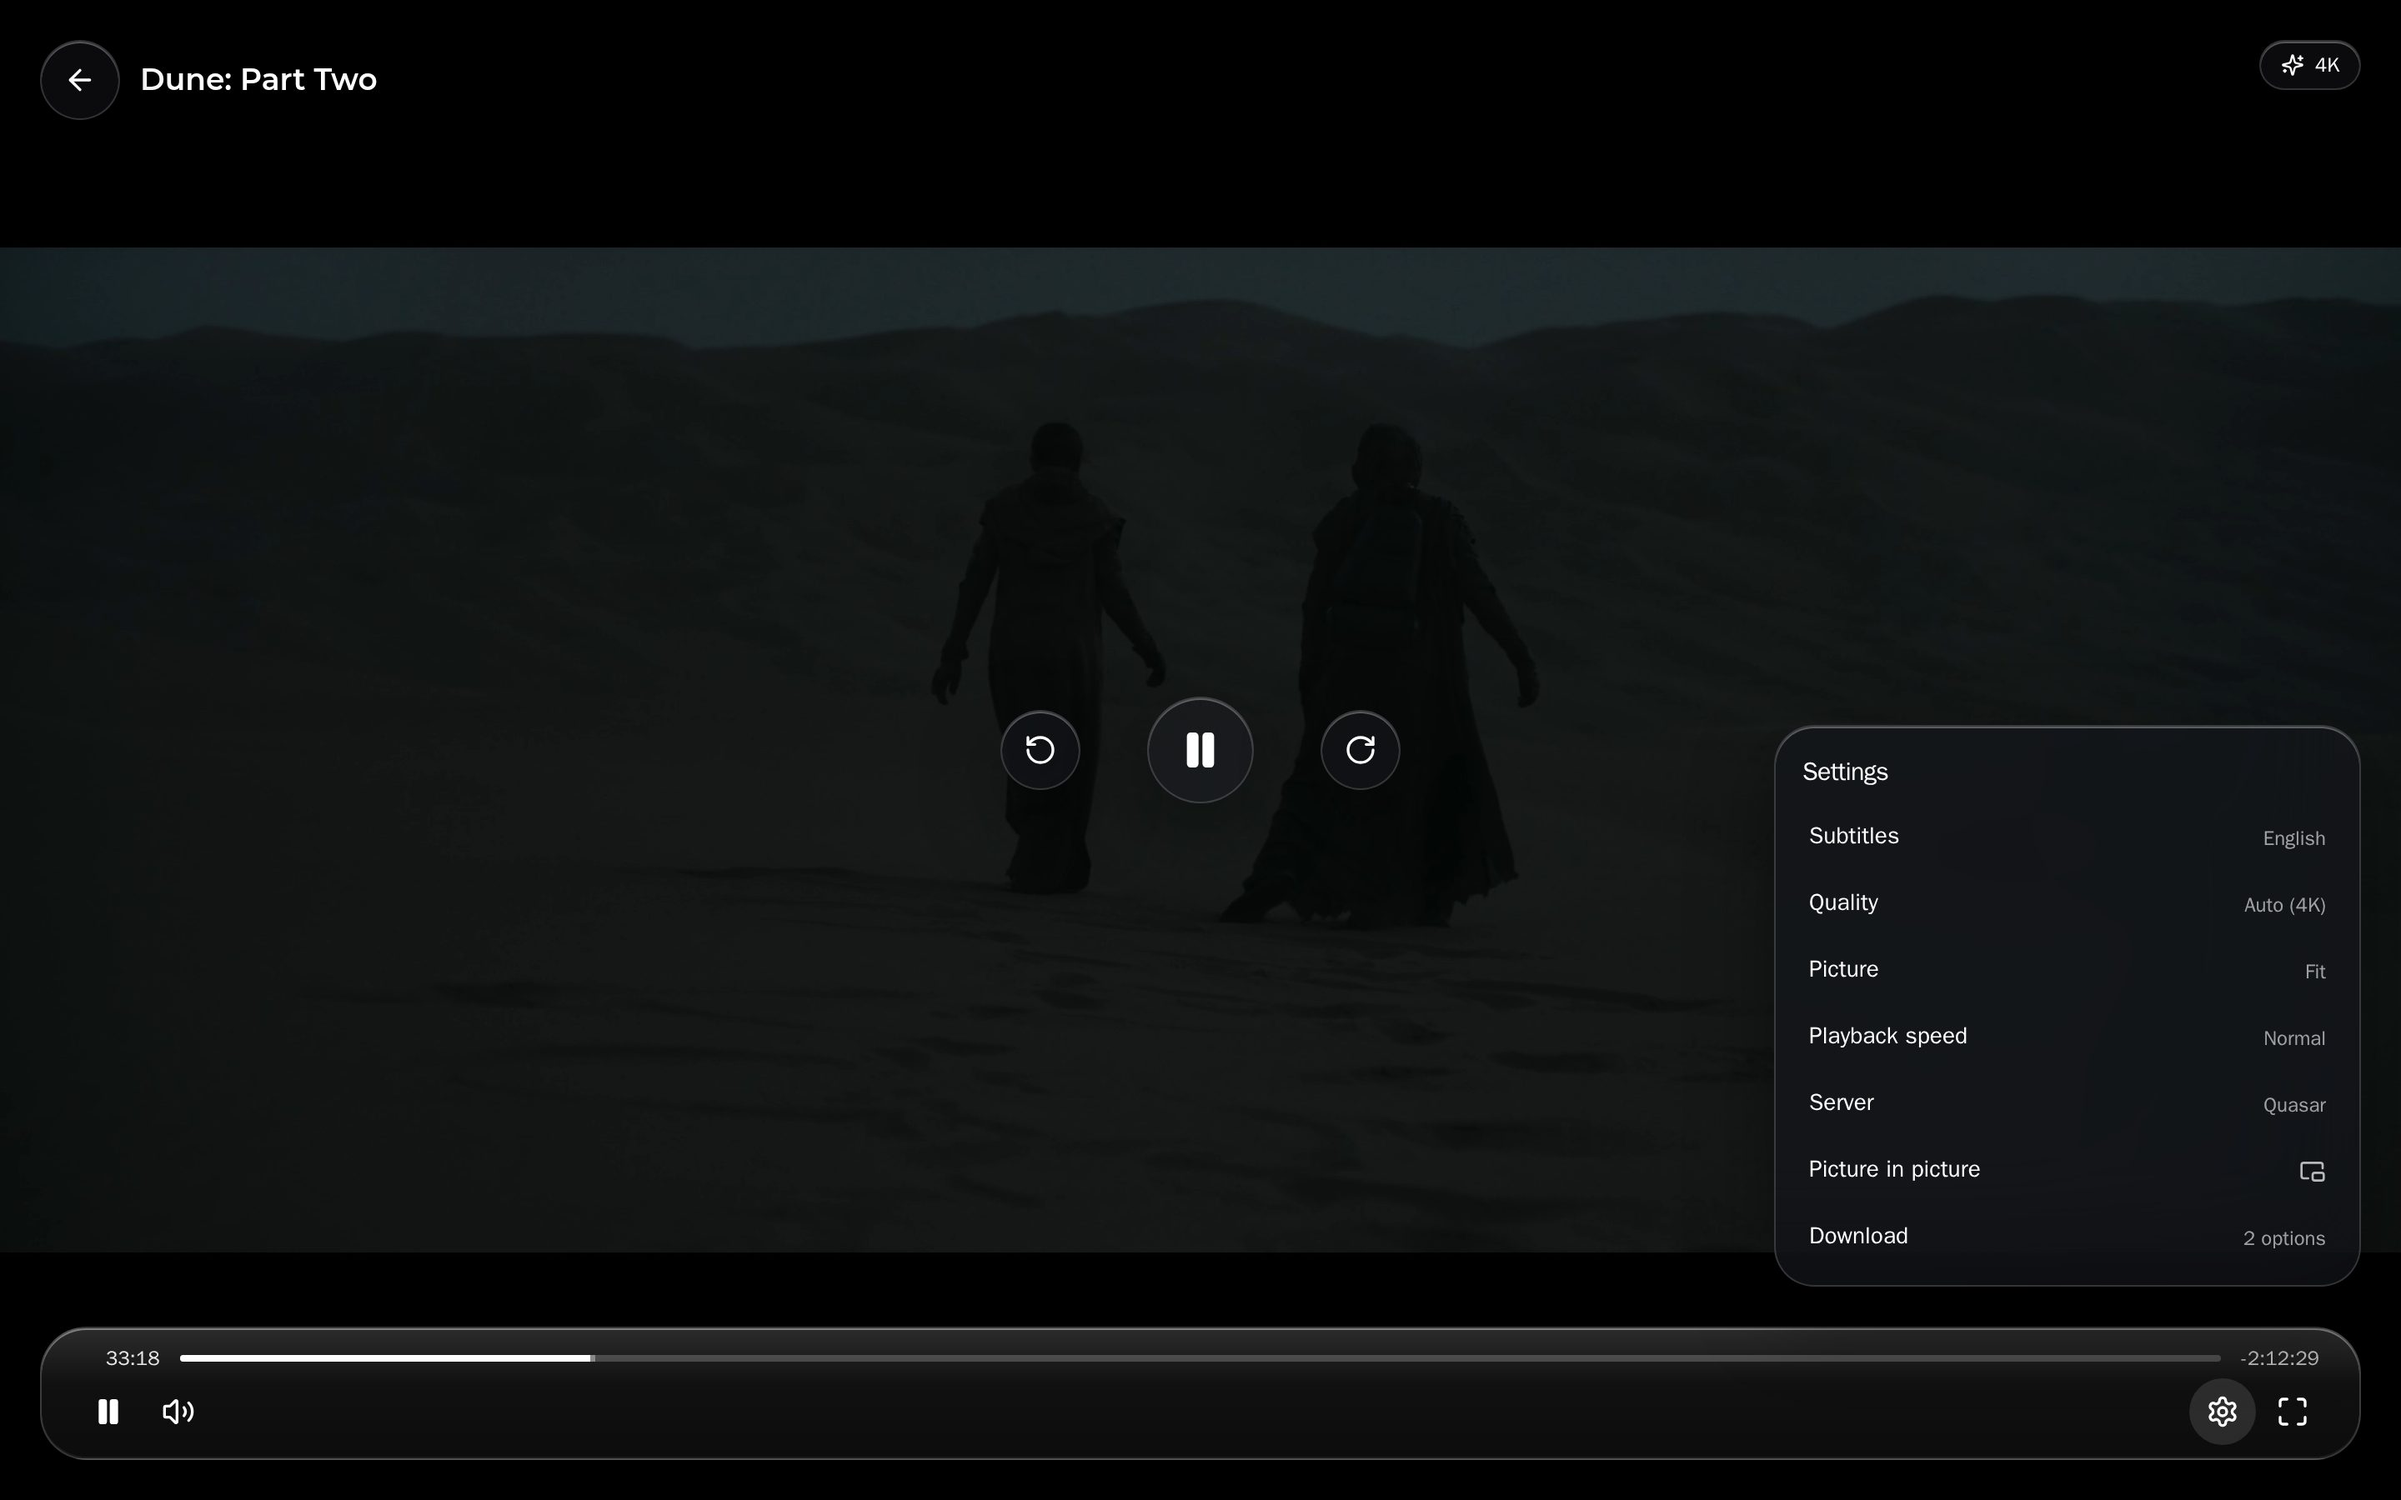
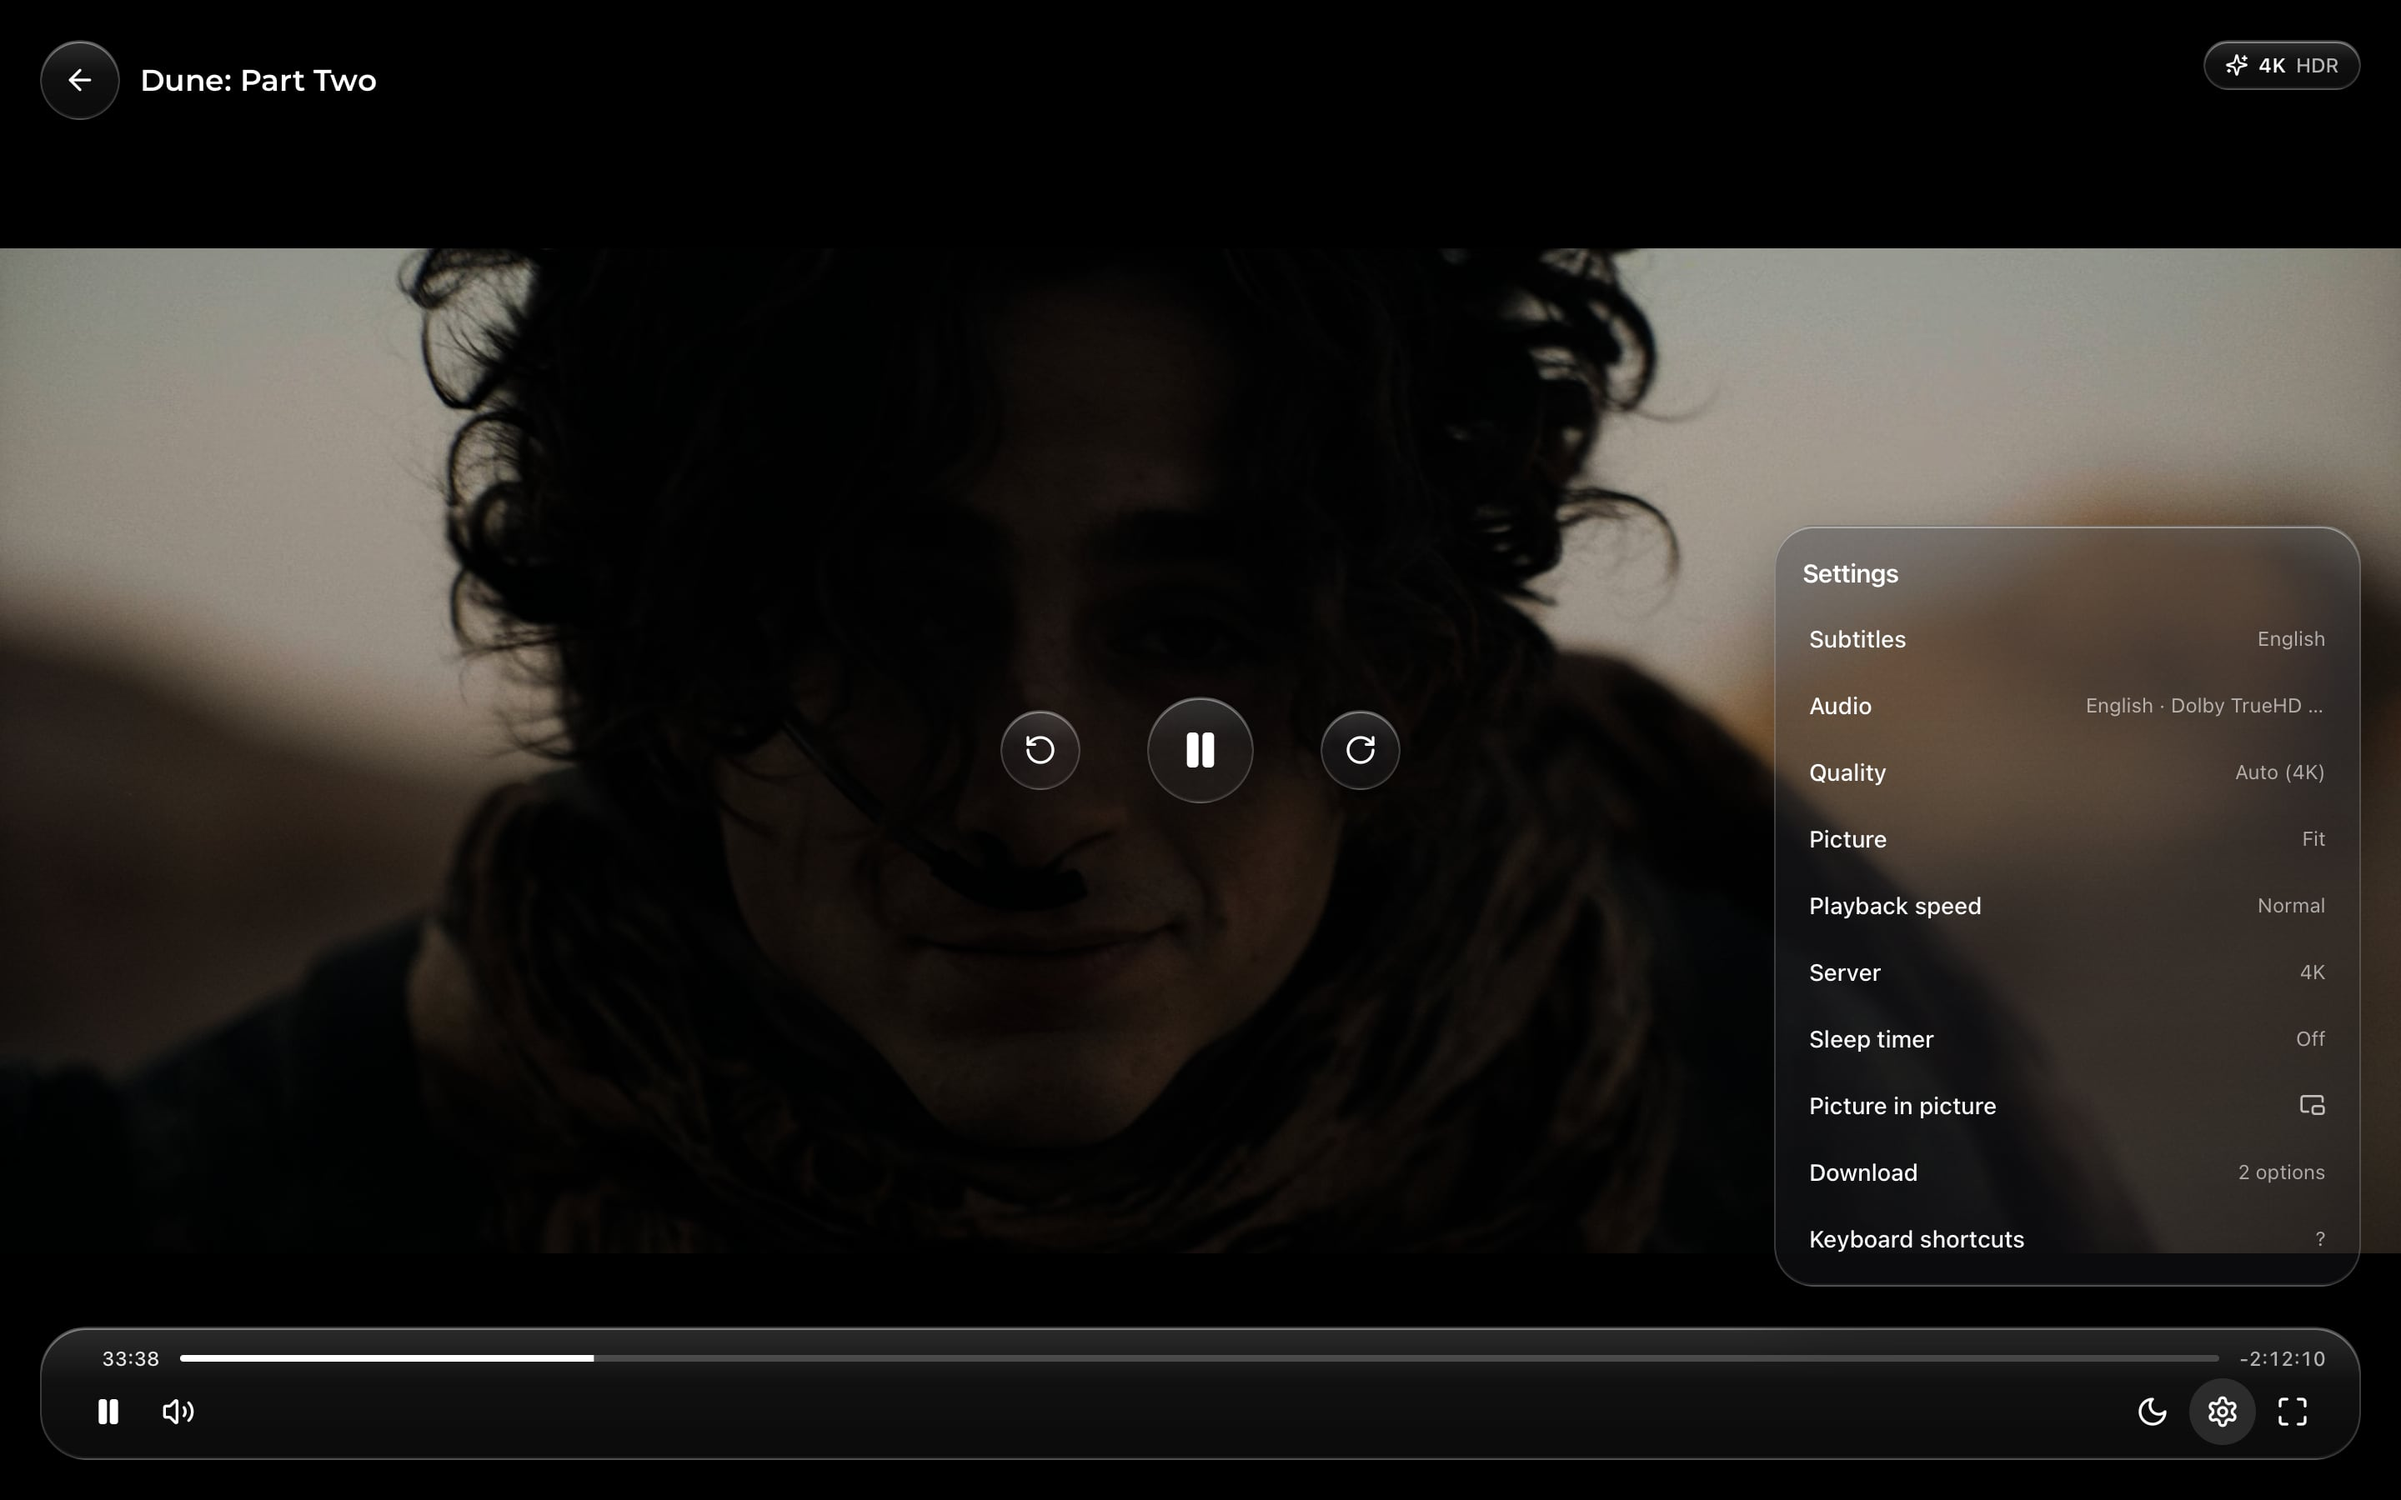
v2.4.0: changelog, README and new screenshots

diff --git a/README.md b/README.md
@@ -43,7 +43,7 @@ starts in seconds, seeks instantly, even in 4K, and plays the same way in every 
 - **Never switches mid-film.** Once a server is playing it stays. A dropped connection is retried on the same server at the same position; only a server that genuinely cannot keep up is swapped for the next one, seamlessly.
 - **Remembers what worked.** Each title keeps a record of which server delivered it, at what resolution and how smoothly, so repeat plays and the next episode skip the search.
 - **Smooth on slow servers too.** The server reads ahead the next segments while you watch, so providers that are slow to answer no longer cause play-pause-play; a server that still cannot keep up is swapped for another at the same spot.
-- **A clean glass player.** One settings menu for subtitles, audio, quality, picture fit (fit, fill, stretch), speed, server, episodes, picture-in-picture, AirPlay and download; timeline previews, resume where you left off, a loading screen that says what it is doing, and full keyboard and touch control (tap to show controls, double-tap the sides to skip 10 seconds).
+- **A clean glass player.** One settings menu for subtitles, audio, quality, picture fit (fit, fill, stretch), speed, server, episodes, picture-in-picture, AirPlay and download; HDR on or off per device, timeline previews, resume where you left off, a loading screen that moves on every device, and full keyboard and touch control (tap to show controls, double-tap the sides to skip 10 seconds).
 - **Made for binge-watching.** Skip Intro and Skip Credits for anime (or skip them automatically), a next-episode countdown, "Still watching?" when you choose, Continue Watching that moves on to the next episode, and your audio and subtitle choice remembered per show.
 - **A sleep timer.** Pause after 15 minutes to 2 hours of playing, or at the end of the episode, the film or a few episodes; the sound fades out, and a dark sleep screen picks up exactly where it stopped.
 
@@ -53,12 +53,12 @@ starts in seconds, seeks instantly, even in 4K, and plays the same way in every 
 - Subtitles and every audio track from inside the file: switch between Japanese with English subtitles and the English dub mid-episode.
 
 **Browsing**
-- Home with Top 10 Today, trending, new on digital, top rated, Popular Anime and what is on Netflix, Prime Video, Disney+, Apple TV+, Max and Hulu, plus "Because you watched…" and a Play Something shuffle.
+- Home with Top 10 Today, trending movies and series, new movies and new series, top rated and what is on Netflix, Prime Video, Disney+, Apple TV+, Max and Hulu, plus "Because you watched…" and a Play Something shuffle. Anime keeps to its own section: it reaches Home only through what you are watching.
 - Movie and show pages with cast, trailers, the rest of a film's collection, full season lists, person pages, genre hubs and instant search.
 - My List, Continue Watching and "already watched" tracking per profile.
 
 **Household**
-- **"Who's watching?"** Tap your profile and you are in. Profiles have a picture (140-odd illustrations in thirteen styles, any emoji, a famous face or your own photo) and any colour; anyone can add one, and each can choose to require a PIN. The first profile is the admin, who can close sign-ups or hide the picker.
+- **"Who's watching?"** Tap your profile and you are in. Profiles have a picture (59 house characters, six illustration styles, any emoji, a famous face or your own photo) and any colour; anyone can add one, and each can choose to require a PIN. The first profile is the admin, who can close sign-ups or hide the picker.
 - Everything is saved per profile: quality, audio and subtitle language, subtitle size, autoplay, theme, list and history.
 - Adult-title filter per profile (behind the PIN when the profile has one).
 - **Clear** (frosted glass, the default) and **Solid** themes, twelve accent colours or any colour, three interface sizes, subtitle size, colour and font, and the rows Home shows.
@@ -82,6 +82,10 @@ starts in seconds, seeks instantly, even in 4K, and plays the same way in every 
 | <img src="docs/screenshots/season.jpg" alt="Season episode list"> | <img src="docs/screenshots/search.jpg" alt="Search results"> |
 | **Settings** | **Create a profile** |
 | <img src="docs/screenshots/settings.jpg" alt="Settings"> | <img src="docs/screenshots/signup.jpg" alt="Create a profile"> |
+
+**Profile pictures**
+
+<img src="docs/screenshots/avatars.jpg" alt="The 59 house characters" width="100%">
 
 <div align="center">
 <img src="docs/screenshots/mobile-profiles.jpg" alt="Mobile profile picker" width="240">

diff --git a/CHANGELOG.md b/CHANGELOG.md
@@ -2,6 +2,42 @@
 
 All notable changes to Absolute Cinema. Versions follow [Semantic Versioning](https://semver.org).
 
+## [2.4.0] - 2026-10-10
+
+### Added
+- **Profile pictures:** 59 characters drawn for the app (The Classics, Animals,
+  Creatures, The Cast, Movie Night), offered first in the picker. New profiles
+  get one by default.
+- **HDR on or off** under Picture in the player, remembered per device, on
+  browsers that support it (Chrome 136+, Safari 26+). The resolution badge
+  shows HDR or Dolby Vision when the file states it.
+- **New Series** row on Home.
+- A play button on the loading screen when the browser refuses to start
+  playback by itself.
+
+### Changed
+- Home, Movies and Shows no longer list anime; it has its own section, which
+  now includes Chinese and Korean animation. Anime reaches Home only through
+  Continue Watching and "Because you watched".
+- Home leads with Trending Movies, Trending Series, New Movies and New Series.
+- Seven of the older illustration sets are no longer offered; profiles using
+  one keep it.
+- The container runs a real init process, caps its logs, and its image no
+  longer includes database backups or runtime data.
+
+### Fixed
+- Dark scenes in HDR titles were washed out: a brightness and contrast filter
+  applied to HDR video raised black to grey. The picture is no longer filtered.
+- Dolby Vision files without an HDR10 layer (profile 5) played green and
+  purple. They are now sent as Dolby Vision to browsers that decode it and
+  skipped elsewhere.
+- The loading screen could stay flat, most often on tablets: its scene waited
+  on the GPU with nothing behind it. A backdrop in the title's colours now
+  animates from the first frame on every device, and the scene fades in over it.
+- My List had no navigation bar or dock.
+- A watch page opened directly on a phone or tablet could wait on the loading
+  screen forever.
+
 ## [2.3.0] - 2026-10-07
 
 ### Added
